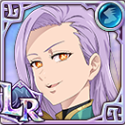
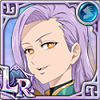
marg

diff --git a/characters/margaret_ludociel/1.html b/characters/margaret_ludociel/1.html
@@ -91,6 +91,8 @@
 			<div class="mt-3 mb-4 ml-3 titlebox col-lg-6">
 				<img src="../../images/characters/margaret_ludociel/ssrb_portrait.png" class="pr-4" style="float:left"
 					loading="lazy">
+				<img src="../../images/characters/margaret_ludociel/lrb_portrait.png" class="pr-4" style="float:left"
+					loading="lazy">
 				<div class="pt-3">
 					<h5 class="whitetext">&#91;Advent of Flash&#93;</h5>
 					<h4 class="whitetext">Covenant of Light Ludociel</h4>
